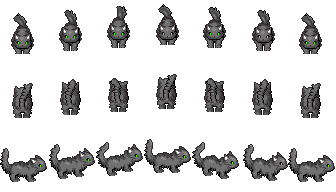
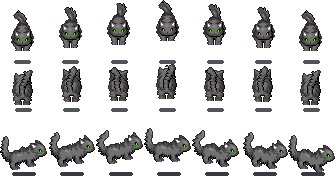
adjust cat distance from player

diff --git a/src/scenes/Play.js b/src/scenes/Play.js
@@ -43,6 +43,7 @@ export default class Play extends BaseScene {
     this.registry.set('coins', savedCoins)
 
     this.furyIsOverJumpable = false;
+    this.furyIsOverTrap = false;
 
     this.setupPlayer(map);
 
@@ -993,6 +994,18 @@ export default class Play extends BaseScene {
                 this.fury.startJumpingOver();
             } else if (!overlapping && this.furyIsOverJumpable) {
                 this.furyIsOverJumpable = false;
+            }
+        }
+
+        if (this.spikeGroup) {
+            const furyBounds = this.fury.getBounds();
+            const overlapping = this.physics.overlap(this.fury, this.spikeGroup)
+
+            if (overlapping && !this.furyIsOverTrap && !this.fury.isJumping) {
+                this.furyIsOverTrap = true;
+                this.fury.startJumpingOver();
+            } else if (!overlapping && this.furyIsOverTrap) {
+                this.furyIsOverTrap = false;
             }
         }
 

diff --git a/src/entities/Fury.js b/src/entities/Fury.js
@@ -217,7 +217,7 @@ export default class Fury extends Phaser.Physics.Arcade.Sprite {
         const distanceX = this.target.x - this.x;
         const distanceY = this.target.y - this.y;
         const distance = Math.hypot(distanceX, distanceY);
-        const desiredDistance = this.scene.mapType === 'dungeon' ? 18 : 50;
+        const desiredDistance = this.scene.mapType === 'dungeon' ? 20 : 70;
         
         let directionX;
         let directionY;

diff --git a/src/index.js b/src/index.js
@@ -11,7 +11,7 @@ const config = {
   physics: {
     default: "arcade",
     arcade: {
-      debug: true,
+      debug: false,
     }
   },
   scene: [Preload, MenuScene, Play]
